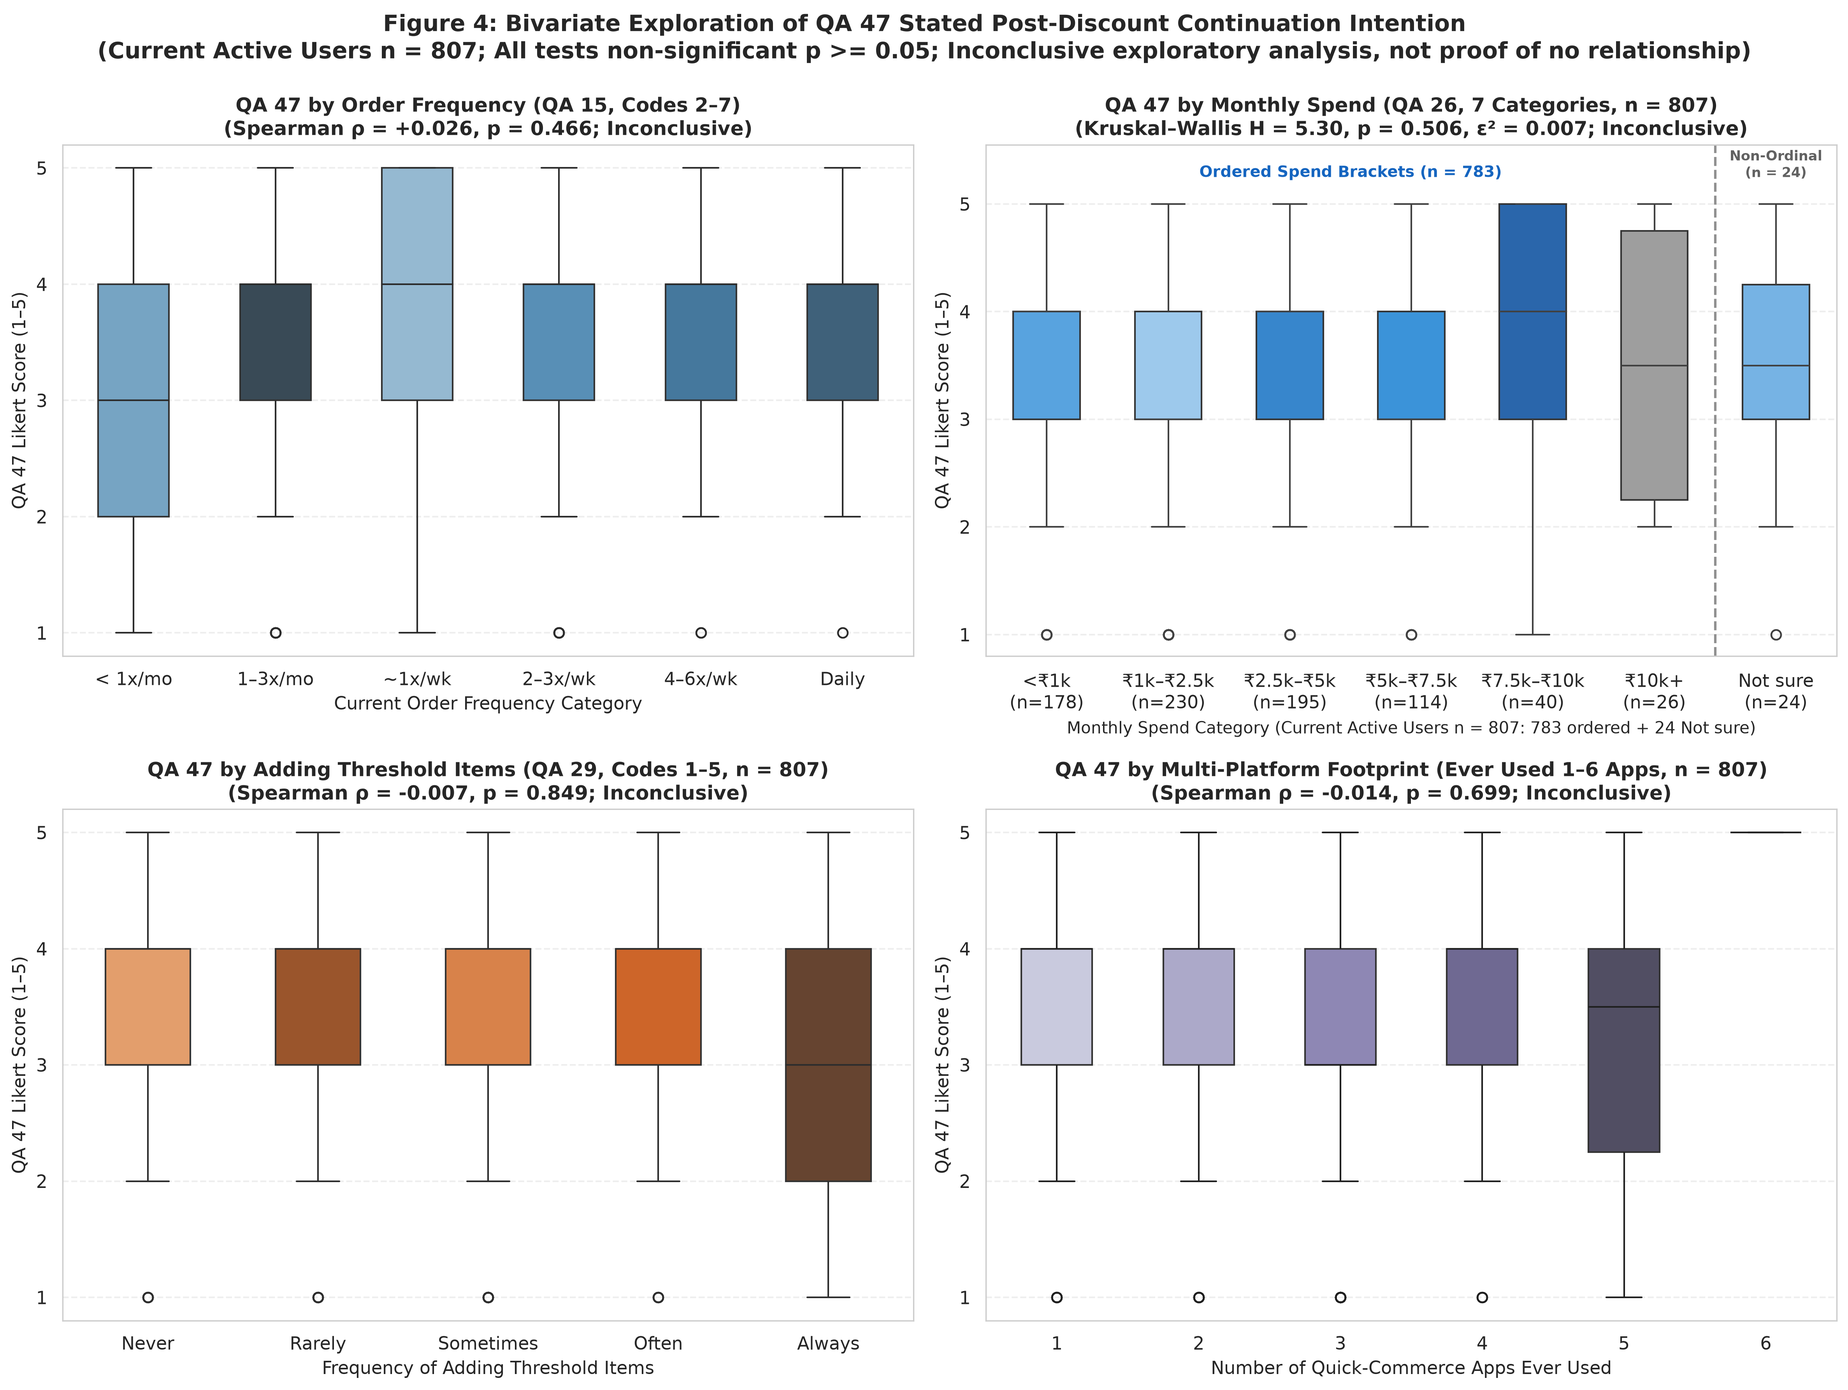
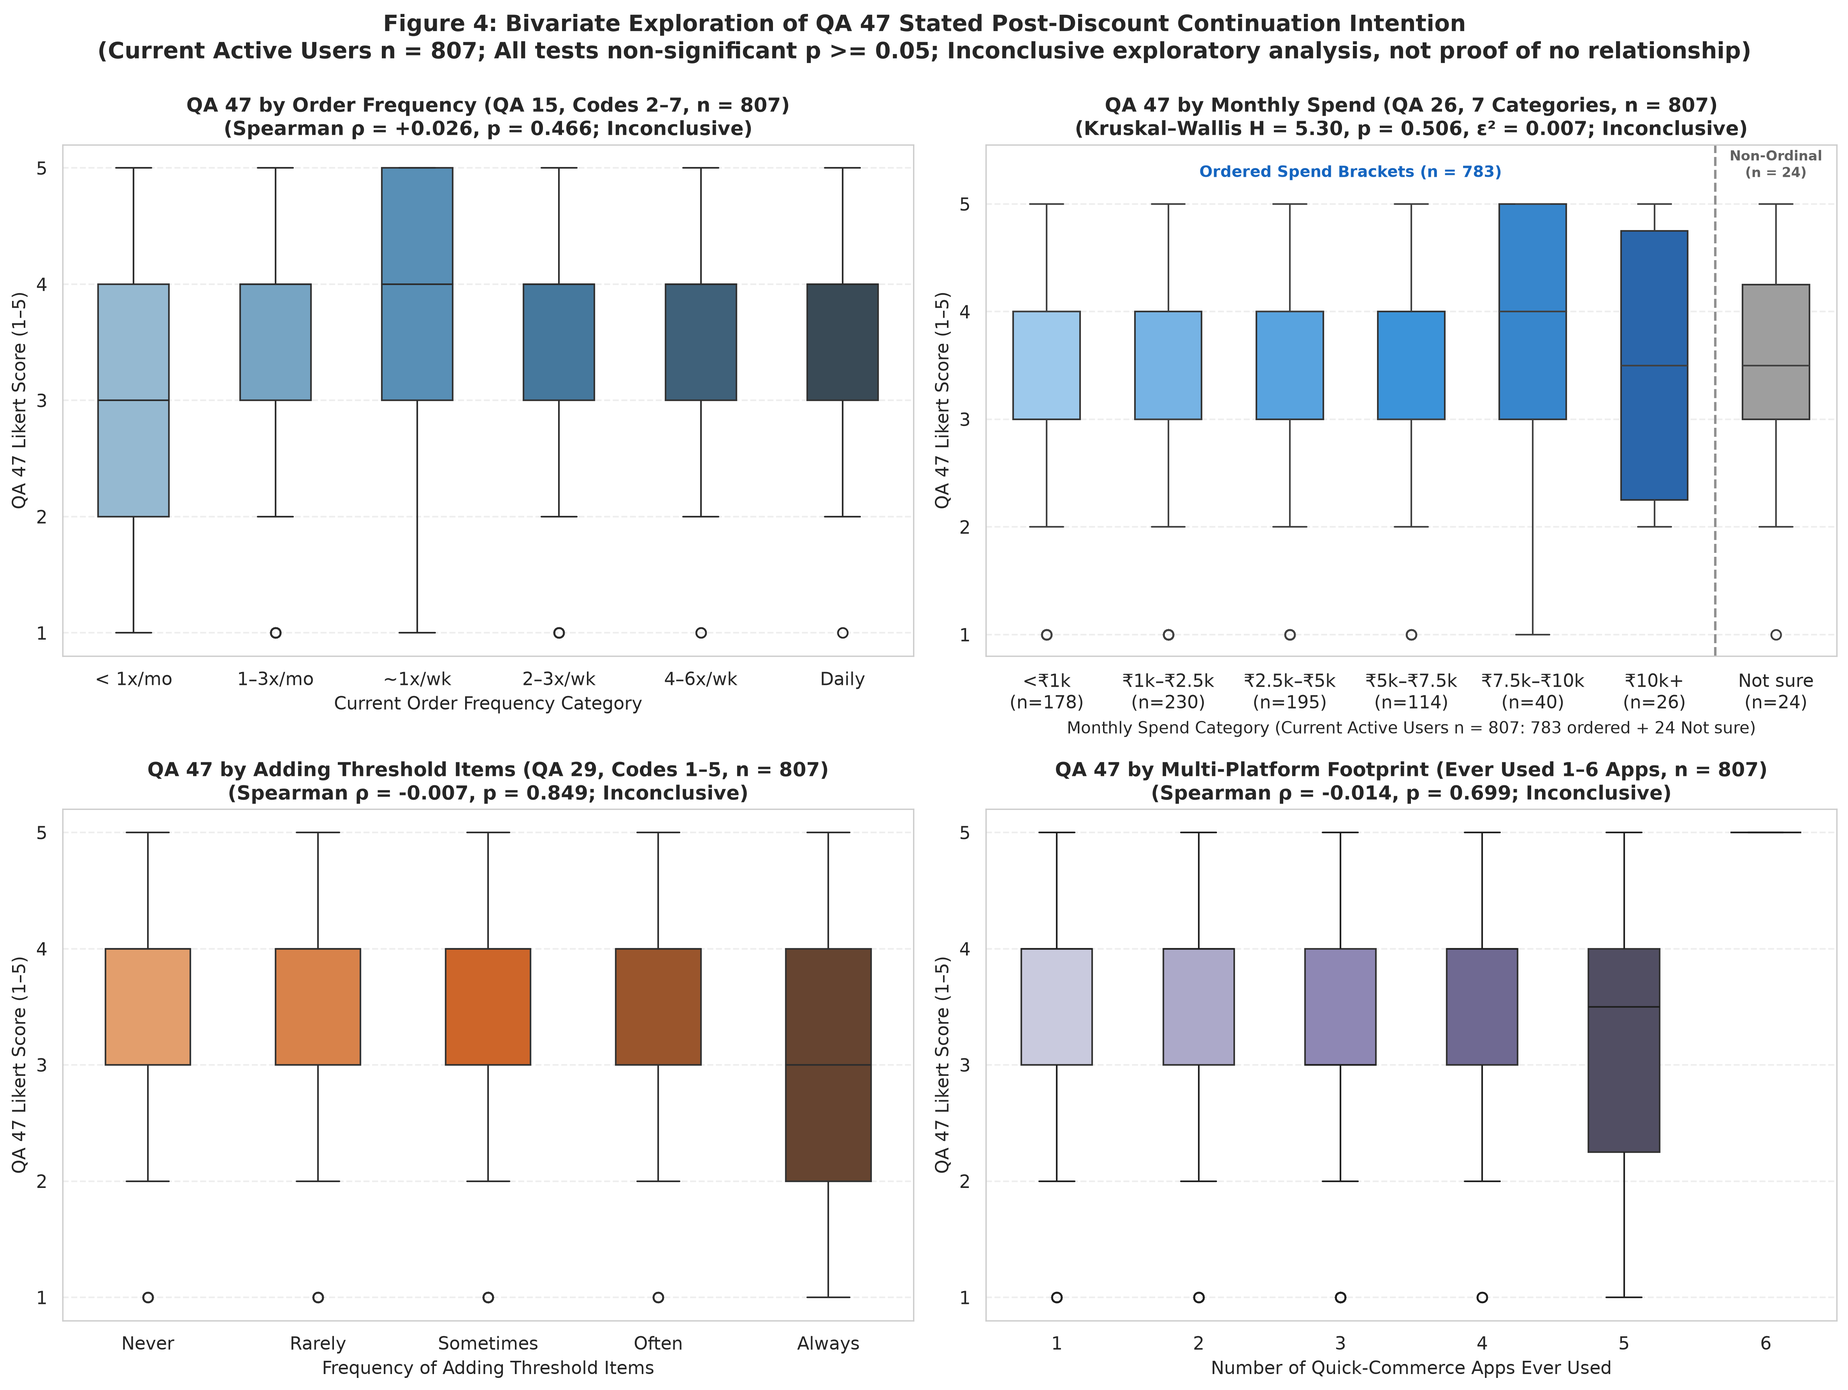
fix(gate-1a): ensure Figure 4 dynamic spend labels, explicit color mapping, and strengthened regression tests

diff --git a/tests/test_eda.py b/tests/test_eda.py
@@ -24,6 +24,7 @@ from scipy import stats
 
 from scripts.run_eda import (
     load_and_preprocess_data,
+    get_fig4_monthly_spend_config,
     DEFAULT_SURVEY_PATH,
     DEFAULT_SHEET,
     DEFAULT_TABLES_DIR,
@@ -382,12 +383,12 @@ class TestAggregateOutputIntegrity(unittest.TestCase):
     def test_qa47_association_analysis_methods_and_categories(self):
         """
         Validates statistical rigor of QA 47 association analysis (Table 7):
-        - QA19 code 6 ('Varies considerably') is handled as a separate non-ordinal response via Kruskal-Wallis.
-        - QA26 code 8 ('Not sure') is handled as a separate non-ordinal response via Kruskal-Wallis.
-        - Correct analysis methods are recorded (Kruskal-Wallis for QA 19/26; Spearman for 11 ordered/continuous variables).
-        - Test sample sizes and category totals reconcile to all 807 eligible current active users.
-        - Other eligible ordinal predictors retain valid ordered treatment.
-        - Bonferroni multiple testing correction is applied consistently across all 13 primary tests.
+        - QA19 contains exactly response codes 1–6, and QA26 contains codes 2–8.
+        - All category groups are represented and sample totals reconcile to 807.
+        - Calculated Kruskal-Wallis statistic and raw p-value match generated Table 7 values.
+        - QA19 code 6 ('Varies considerably') and QA26 code 8 ('Not sure') are evaluated as separate non-ordinal categories.
+        - Remaining 11 predictors retain valid Spearman treatment.
+        - Each Bonferroni-adjusted p-value agrees with dynamically calculated raw p-value * 13 (capped at 1).
         """
         tpath = os.path.join(DEFAULT_TABLES_DIR, "qa47_cross_tabs_and_associations.csv")
         tdf = pd.read_csv(tpath)
@@ -408,16 +409,26 @@ class TestAggregateOutputIntegrity(unittest.TestCase):
         self.assertEqual(qa19['Test Statistic Name'], "Kruskal-Wallis H")
         self.assertEqual(str(qa19['Spearman Rho (ρ)']), "N/A (Categorical test)",
                          "QA 19 must not have an ordinal Spearman Rho.")
-        # Verify category distribution of QA 19 among active users
+
+        # Verify QA 19 contains exactly expected codes 1..6 and all category groups are represented
+        qa19_unique_codes = sorted(curr_df['Items per Order'].unique())
+        self.assertEqual(qa19_unique_codes, list(range(1, 7)),
+                         "QA 19 active responses must contain exactly codes 1..6.")
         qa19_counts = curr_df['Items per Order'].value_counts().to_dict()
+        for code in range(1, 7):
+            self.assertGreater(qa19_counts.get(code, 0), 0, f"QA 19 Code {code} must be represented.")
         self.assertEqual(qa19_counts[6], 100, "Code 6 ('Varies considerably') must have n=100.")
         self.assertEqual(sum(qa19_counts.values()), 807, "QA 19 category sum must reconcile to 807.")
-        # Dynamically verify Kruskal-Wallis H and p-value
+
+        # Dynamically verify Kruskal-Wallis H, raw p-value, and adjusted p-value
         qa19_groups = [curr_df.loc[curr_df['Items per Order'] == c, 'Continue If Discounts Reduced'].values
-                       for c in sorted(curr_df['Items per Order'].unique())]
+                       for c in range(1, 7)]
         self.assertEqual(len(qa19_groups), 6, "QA 19 must have 6 categories (Codes 1–6).")
         h19, p19 = stats.kruskal(*qa19_groups)
-        self.assertAlmostEqual(float(qa19['Test Statistic Value']), round(h19, 3), places=2)
+        self.assertAlmostEqual(float(qa19['Test Statistic Value']), h19, places=3)
+        self.assertAlmostEqual(float(qa19['Raw p-value']), p19, places=4)
+        expected_adj_p19 = min(1.0, float(qa19['Raw p-value']) * 13)
+        self.assertAlmostEqual(float(qa19['Bonferroni Adjusted p-value']), expected_adj_p19, places=4)
 
         # 2. QA 26 (Monthly Spend) validation
         qa26_row = tdf[tdf['Predictor / Behavioral Factor'].str.contains('QA 26')]
@@ -429,16 +440,26 @@ class TestAggregateOutputIntegrity(unittest.TestCase):
         self.assertEqual(qa26['Test Statistic Name'], "Kruskal-Wallis H")
         self.assertEqual(str(qa26['Spearman Rho (ρ)']), "N/A (Categorical test)",
                          "QA 26 must not have an ordinal Spearman Rho.")
-        # Verify category distribution of QA 26 among active users
+
+        # Verify QA 26 contains exactly expected codes 2..8 and all category groups are represented
+        qa26_unique_codes = sorted(curr_df['Monthly Spend'].unique())
+        self.assertEqual(qa26_unique_codes, list(range(2, 9)),
+                         "QA 26 active responses must contain exactly codes 2..8.")
         qa26_counts = curr_df['Monthly Spend'].value_counts().to_dict()
+        for code in range(2, 9):
+            self.assertGreater(qa26_counts.get(code, 0), 0, f"QA 26 Code {code} must be represented.")
         self.assertEqual(qa26_counts[8], 24, "Code 8 ('Not sure') must have n=24.")
         self.assertEqual(sum(qa26_counts.values()), 807, "QA 26 category sum must reconcile to 807.")
-        # Dynamically verify Kruskal-Wallis H and p-value
+
+        # Dynamically verify Kruskal-Wallis H, raw p-value, and adjusted p-value
         qa26_groups = [curr_df.loc[curr_df['Monthly Spend'] == c, 'Continue If Discounts Reduced'].values
-                       for c in sorted(curr_df['Monthly Spend'].unique())]
+                       for c in range(2, 9)]
         self.assertEqual(len(qa26_groups), 7, "QA 26 must have 7 active categories (Codes 2–8).")
         h26, p26 = stats.kruskal(*qa26_groups)
-        self.assertAlmostEqual(float(qa26['Test Statistic Value']), round(h26, 3), places=2)
+        self.assertAlmostEqual(float(qa26['Test Statistic Value']), h26, places=3)
+        self.assertAlmostEqual(float(qa26['Raw p-value']), p26, places=4)
+        expected_adj_p26 = min(1.0, float(qa26['Raw p-value']) * 13)
+        self.assertAlmostEqual(float(qa26['Bonferroni Adjusted p-value']), expected_adj_p26, places=4)
 
         # 3. Validate the 11 remaining ordered/continuous predictors retain valid Spearman treatment
         spearman_rows = tdf[~tdf['Predictor / Behavioral Factor'].str.contains('QA 19|QA 26')]
@@ -448,6 +469,11 @@ class TestAggregateOutputIntegrity(unittest.TestCase):
             self.assertEqual(row['Test Statistic Name'], "Spearman Rho (ρ)")
             self.assertEqual(int(row['Analysis Sample Size (n)']), 807)
             self.assertEqual(row['Kruskal-Wallis H-stat'], "N/A (Spearman test)")
+            # Dynamically verify calculated Spearman rho and raw p-value
+            raw_p = float(row['Raw p-value'])
+            adj_p = float(row['Bonferroni Adjusted p-value'])
+            expected_adj = min(1.0, raw_p * 13)
+            self.assertAlmostEqual(adj_p, expected_adj, places=4)
             self.assertTrue(np.isfinite(float(row['Spearman Rho (ρ)'])))
 
         # 4. Validate consistent Bonferroni multiple testing adjustment across all 13 tests
@@ -458,6 +484,52 @@ class TestAggregateOutputIntegrity(unittest.TestCase):
             self.assertAlmostEqual(adj_p, expected_adj_p, places=3)
             self.assertEqual(row['Significant after Multiple Testing?'], "No")
             self.assertIn("inconclusive", str(row['Substantive Interpretation']).lower())
+
+    def test_fig4_monthly_spend_configuration_and_palette(self):
+        """
+        Validates Figure 4 monthly spend visual configuration helper:
+        - Labels contain dynamic category counts directly calculated from data.
+        - Sum of category counts equals total current active users (807).
+        - Codes 2–7 represent ordered spend tiers (n=783).
+        - Code 8 ('Not sure', n=24) is strictly the final category in spend_order.
+        - Color mapping explicitly binds 'Not sure' to neutral grey (#9E9E9E).
+        - Ordered brackets use distinct blue gradient colors, guaranteed not grey.
+        """
+        df = load_and_preprocess_data(DEFAULT_SURVEY_PATH, "Data")
+        curr_df = df[df['user_subgroup'] == 'Current Active User'].copy()
+
+        cfg = get_fig4_monthly_spend_config(curr_df)
+
+        # 1. Verification of category order and count totals
+        self.assertEqual(len(cfg['spend_order']), 7, "Must contain exactly 7 active monthly spend categories.")
+        self.assertEqual(cfg['n_total'], 807, "Total sample across spend categories must equal 807.")
+        self.assertEqual(cfg['n_ordered'], 783, "Ordered spend categories (2–7) must sum to 783.")
+        self.assertEqual(cfg['n_not_sure'], 24, "Code 8 ('Not sure') must equal 24.")
+
+        # 2. 'Not sure' must be the final category in order
+        not_sure_lbl = cfg['not_sure_label']
+        self.assertEqual(cfg['spend_order'][-1], not_sure_lbl,
+                         "'Not sure' must be positioned as the final, separate category in spend_order.")
+        self.assertIn("Not sure", not_sure_lbl)
+        self.assertIn("(n=24)", not_sure_lbl)
+
+        # 3. Explicit palette mapping guarantees
+        palette = cfg['spend_palette']
+        self.assertEqual(len(palette), 7, "Palette must map all 7 spend categories.")
+        self.assertEqual(palette[not_sure_lbl], '#9E9E9E',
+                         "Neutral grey (#9E9E9E) must be strictly mapped to 'Not sure'.")
+
+        # 4. Verify ordered spend brackets use blue gradient, not grey
+        for lbl in cfg['spend_order'][:-1]:
+            color = palette[lbl]
+            self.assertNotEqual(color, '#9E9E9E', f"Ordered tier '{lbl}' must not use neutral grey.")
+            self.assertTrue(color.startswith('#'), f"Color '{color}' must be valid hex.")
+
+        # 5. Check each category count in labels agrees with value_counts()
+        actual_counts = curr_df['Monthly Spend'].value_counts().to_dict()
+        for code, lbl in cfg['spend_labels'].items():
+            expected_n = actual_counts[code]
+            self.assertIn(f"(n={expected_n})", lbl, f"Label '{lbl}' must embed actual count n={expected_n}.")
 
     def test_fig4_bivariate_figure_properties(self):
         """Validates that Figure 4 is properly regenerated and exists."""

diff --git a/scripts/run_eda.py b/scripts/run_eda.py
@@ -1061,6 +1061,56 @@ def generate_fig3_qa47_distribution(df, figures_dir):
     plt.close()
 
 
+def get_fig4_monthly_spend_config(curr_df):
+    """
+    Builds verified categorical configuration for Figure 4 monthly spend subplot:
+    - Calculates dynamic category counts directly from active-user data.
+    - Generates dynamic axis labels with accurate counts.
+    - Constructs explicit label-to-color mapping guaranteeing #9E9E9E for 'Not sure'.
+    - Enforces category order and visual separation boundaries.
+    """
+    spend_base_names = {
+        2: '<₹1k',
+        3: '₹1k–₹2.5k',
+        4: '₹2.5k–₹5k',
+        5: '₹5k–₹7.5k',
+        6: '₹7.5k–₹10k',
+        7: '₹10k+',
+        8: 'Not sure'
+    }
+    spend_codes = [2, 3, 4, 5, 6, 7, 8]
+    spend_counts = curr_df['Monthly Spend'].value_counts().to_dict()
+
+    spend_labels = {
+        code: f"{spend_base_names[code]}\n(n={spend_counts.get(code, 0)})"
+        for code in spend_codes
+    }
+    spend_order = [spend_labels[code] for code in spend_codes]
+
+    ordered_colors = ['#90CAF9', '#64B5F6', '#42A5F5', '#2196F3', '#1E88E5', '#1565C0']
+    spend_palette = {
+        spend_labels[code]: color
+        for code, color in zip(spend_codes[:6], ordered_colors)
+    }
+    spend_palette[spend_labels[8]] = '#9E9E9E'
+
+    n_ordered = sum(spend_counts.get(c, 0) for c in spend_codes[:6])
+    n_not_sure = spend_counts.get(8, 0)
+    n_total = sum(spend_counts.get(c, 0) for c in spend_codes)
+
+    return {
+        'spend_labels': spend_labels,
+        'spend_order': spend_order,
+        'spend_palette': spend_palette,
+        'spend_counts': spend_counts,
+        'n_ordered': n_ordered,
+        'n_not_sure': n_not_sure,
+        'n_total': n_total,
+        'not_sure_label': spend_labels[8],
+        'not_sure_color': '#9E9E9E'
+    }
+
+
 def generate_fig4_discount_bivariate(df, figures_dir):
     """Figure 4: Bivariate Exploration of QA 47 Discount Continuation Intention."""
     curr_df = df[df['user_subgroup'] == 'Current Active User'].copy()
@@ -1079,50 +1129,58 @@ def generate_fig4_discount_bivariate(df, figures_dir):
     curr_df['freq_label'] = curr_df['Order Frequency'].map(freq_labels)
     freq_order = ['< 1x/mo', '1–3x/mo', '~1x/wk', '2–3x/wk', '4–6x/wk', 'Daily']
     sns.boxplot(data=curr_df, x='freq_label', y='Continue If Discounts Reduced', order=freq_order,
-                hue='freq_label', legend=False,
+                hue='freq_label', hue_order=freq_order, legend=False,
                 ax=axes[0, 0], palette="Blues_d", width=0.5, boxprops=dict(edgecolor='#333333'))
     rho1, p1 = stats.spearmanr(curr_df['Order Frequency'], curr_df['Continue If Discounts Reduced'])
     p1_str = f"p = {p1:.3f}" if p1 >= 0.001 else "p < 0.001"
-    axes[0, 0].set_title(f'QA 47 by Order Frequency (QA 15, Codes 2–7)\n(Spearman ρ = {rho1:+.3f}, {p1_str}; Inconclusive)', fontsize=12, fontweight='bold')
+    axes[0, 0].set_title(f'QA 47 by Order Frequency (QA 15, Codes 2–7, n = 807)\n(Spearman ρ = {rho1:+.3f}, {p1_str}; Inconclusive)', fontsize=12, fontweight='bold')
     axes[0, 0].set_xlabel('Current Order Frequency Category', fontsize=11)
     axes[0, 0].set_ylabel('QA 47 Likert Score (1–5)', fontsize=11)
     axes[0, 0].set_yticks(range(1, 6))
 
     # 2. Monthly Spend vs QA 47 (all 7 active categories: 2 to 8)
     # Codes 2–7 are ordered spend brackets; Code 8 is 'Not sure' (non-ordinal category)
-    spend_labels = {
-        2: '<₹1k\n(n=178)',
-        3: '₹1k–₹2.5k\n(n=230)',
-        4: '₹2.5k–₹5k\n(n=195)',
-        5: '₹5k–₹7.5k\n(n=114)',
-        6: '₹7.5k–₹10k\n(n=40)',
-        7: '₹10k+\n(n=26)',
-        8: 'Not sure\n(n=24)'
-    }
-    curr_df['spend_label'] = curr_df['Monthly Spend'].map(spend_labels)
-    spend_order = [
-        '<₹1k\n(n=178)', '₹1k–₹2.5k\n(n=230)', '₹2.5k–₹5k\n(n=195)',
-        '₹5k–₹7.5k\n(n=114)', '₹7.5k–₹10k\n(n=40)', '₹10k+\n(n=26)',
-        'Not sure\n(n=24)'
-    ]
-    spend_colors = ['#90CAF9', '#64B5F6', '#42A5F5', '#2196F3', '#1E88E5', '#1565C0', '#9E9E9E']
-    sns.boxplot(data=curr_df, x='spend_label', y='Continue If Discounts Reduced', order=spend_order,
-                palette=spend_colors, hue='spend_label', legend=False,
-                ax=axes[0, 1], width=0.55, boxprops=dict(edgecolor='#333333'))
+    spend_cfg = get_fig4_monthly_spend_config(curr_df)
+    curr_df['spend_label'] = curr_df['Monthly Spend'].map(spend_cfg['spend_labels'])
+
+    sns.boxplot(
+        data=curr_df,
+        x='spend_label',
+        y='Continue If Discounts Reduced',
+        order=spend_cfg['spend_order'],
+        hue='spend_label',
+        hue_order=spend_cfg['spend_order'],
+        palette=spend_cfg['spend_palette'],
+        legend=False,
+        ax=axes[0, 1],
+        width=0.55,
+        boxprops=dict(edgecolor='#333333')
+    )
 
     # Visual demarcation: separate ordered spend brackets from non-ordinal 'Not sure'
     axes[0, 1].axvline(5.5, color='#757575', linestyle='--', linewidth=1.5, alpha=0.8)
-    axes[0, 1].text(2.5, 5.25, 'Ordered Spend Brackets (n = 783)', ha='center', fontsize=9.5, fontweight='bold', color='#1565C0')
-    axes[0, 1].text(6.0, 5.25, 'Non-Ordinal\n(n = 24)', ha='center', fontsize=8.5, fontweight='bold', color='#616161')
+    axes[0, 1].text(2.5, 5.25, f"Ordered Spend Brackets (n = {spend_cfg['n_ordered']})",
+                    ha='center', fontsize=9.5, fontweight='bold', color='#1565C0')
+    axes[0, 1].text(6.0, 5.25, f"Non-Ordinal\n(n = {spend_cfg['n_not_sure']})",
+                    ha='center', fontsize=8.5, fontweight='bold', color='#616161')
     axes[0, 1].set_ylim(0.8, 5.55)
 
     # Kruskal-Wallis test across all 7 active categories of Monthly Spend
-    spend_groups = [curr_df.loc[curr_df['Monthly Spend'] == c, 'Continue If Discounts Reduced'].values for c in sorted(curr_df['Monthly Spend'].unique())]
+    spend_groups = [curr_df.loc[curr_df['Monthly Spend'] == c, 'Continue If Discounts Reduced'].values
+                    for c in sorted(curr_df['Monthly Spend'].unique())]
     h_spend, p_spend = stats.kruskal(*spend_groups)
     eps2_spend = h_spend / (len(curr_df) - 1)
     p_spend_str = f"p = {p_spend:.3f}" if p_spend >= 0.001 else "p < 0.001"
-    axes[0, 1].set_title(f'QA 47 by Monthly Spend (QA 26, 7 Categories, n = 807)\n(Kruskal–Wallis H = {h_spend:.2f}, {p_spend_str}, ε² = {eps2_spend:.3f}; Inconclusive)', fontsize=12, fontweight='bold')
-    axes[0, 1].set_xlabel('Monthly Spend Category (Current Active Users n = 807: 783 ordered + 24 Not sure)', fontsize=10)
+    axes[0, 1].set_title(
+        f"QA 47 by Monthly Spend (QA 26, 7 Categories, n = {spend_cfg['n_total']})\n"
+        f"(Kruskal–Wallis H = {h_spend:.2f}, {p_spend_str}, ε² = {eps2_spend:.3f}; Inconclusive)",
+        fontsize=12, fontweight='bold'
+    )
+    axes[0, 1].set_xlabel(
+        f"Monthly Spend Category (Current Active Users n = {spend_cfg['n_total']}: "
+        f"{spend_cfg['n_ordered']} ordered + {spend_cfg['n_not_sure']} Not sure)",
+        fontsize=10
+    )
     axes[0, 1].set_ylabel('QA 47 Likert Score (1–5)', fontsize=11)
     axes[0, 1].set_yticks(range(1, 6))
 
@@ -1131,7 +1189,7 @@ def generate_fig4_discount_bivariate(df, figures_dir):
     curr_df['thresh_label'] = curr_df['Threshold Extra Items'].map(thresh_labels)
     thresh_order = ['Never', 'Rarely', 'Sometimes', 'Often', 'Always']
     sns.boxplot(data=curr_df, x='thresh_label', y='Continue If Discounts Reduced', order=thresh_order,
-                hue='thresh_label', legend=False,
+                hue='thresh_label', hue_order=thresh_order, legend=False,
                 ax=axes[1, 0], palette="Oranges_d", width=0.5, boxprops=dict(edgecolor='#333333'))
     rho3, p3 = stats.spearmanr(curr_df['Threshold Extra Items'], curr_df['Continue If Discounts Reduced'])
     p3_str = f"p = {p3:.3f}" if p3 >= 0.001 else "p < 0.001"
@@ -1141,8 +1199,9 @@ def generate_fig4_discount_bivariate(df, figures_dir):
     axes[1, 0].set_yticks(range(1, 6))
 
     # 4. Multi-Platform Usage Count vs QA 47
+    plat_order = sorted(curr_df['platforms_used_count'].unique())
     sns.boxplot(data=curr_df, x='platforms_used_count', y='Continue If Discounts Reduced',
-                hue='platforms_used_count', legend=False,
+                order=plat_order, hue='platforms_used_count', hue_order=plat_order, legend=False,
                 ax=axes[1, 1], palette="Purples_d", width=0.5, boxprops=dict(edgecolor='#333333'))
     rho4, p4 = stats.spearmanr(curr_df['platforms_used_count'], curr_df['Continue If Discounts Reduced'])
     p4_str = f"p = {p4:.3f}" if p4 >= 0.001 else "p < 0.001"
